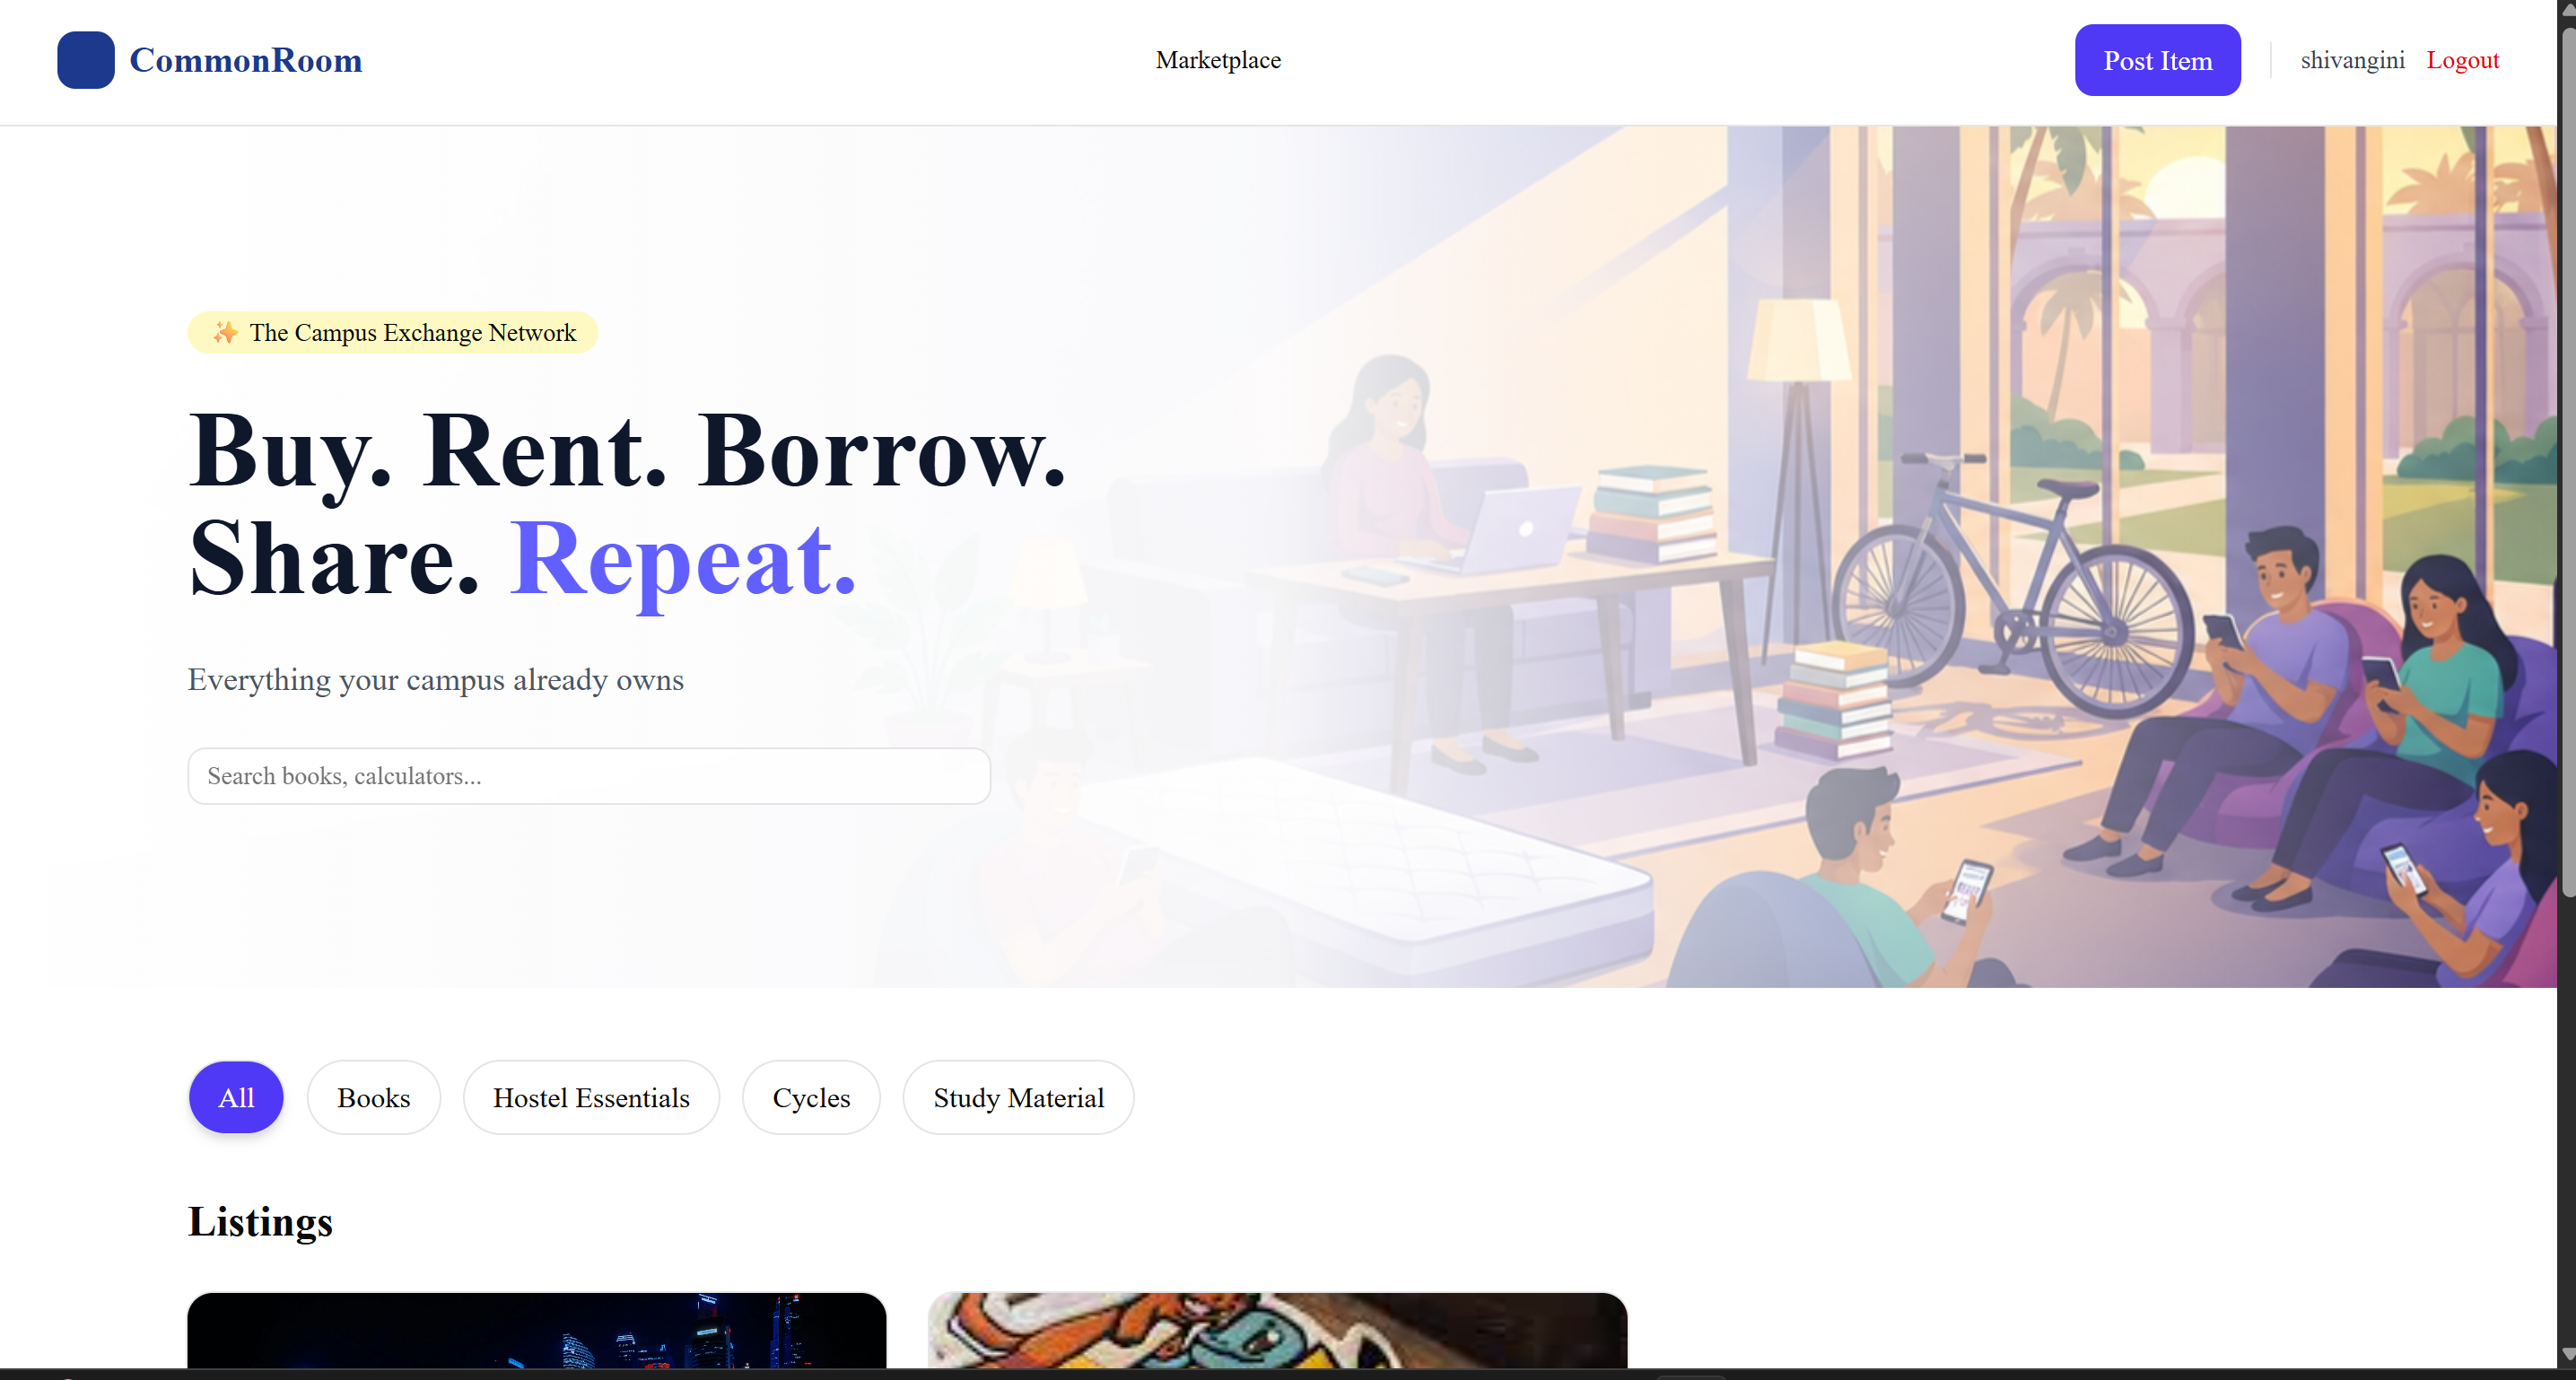
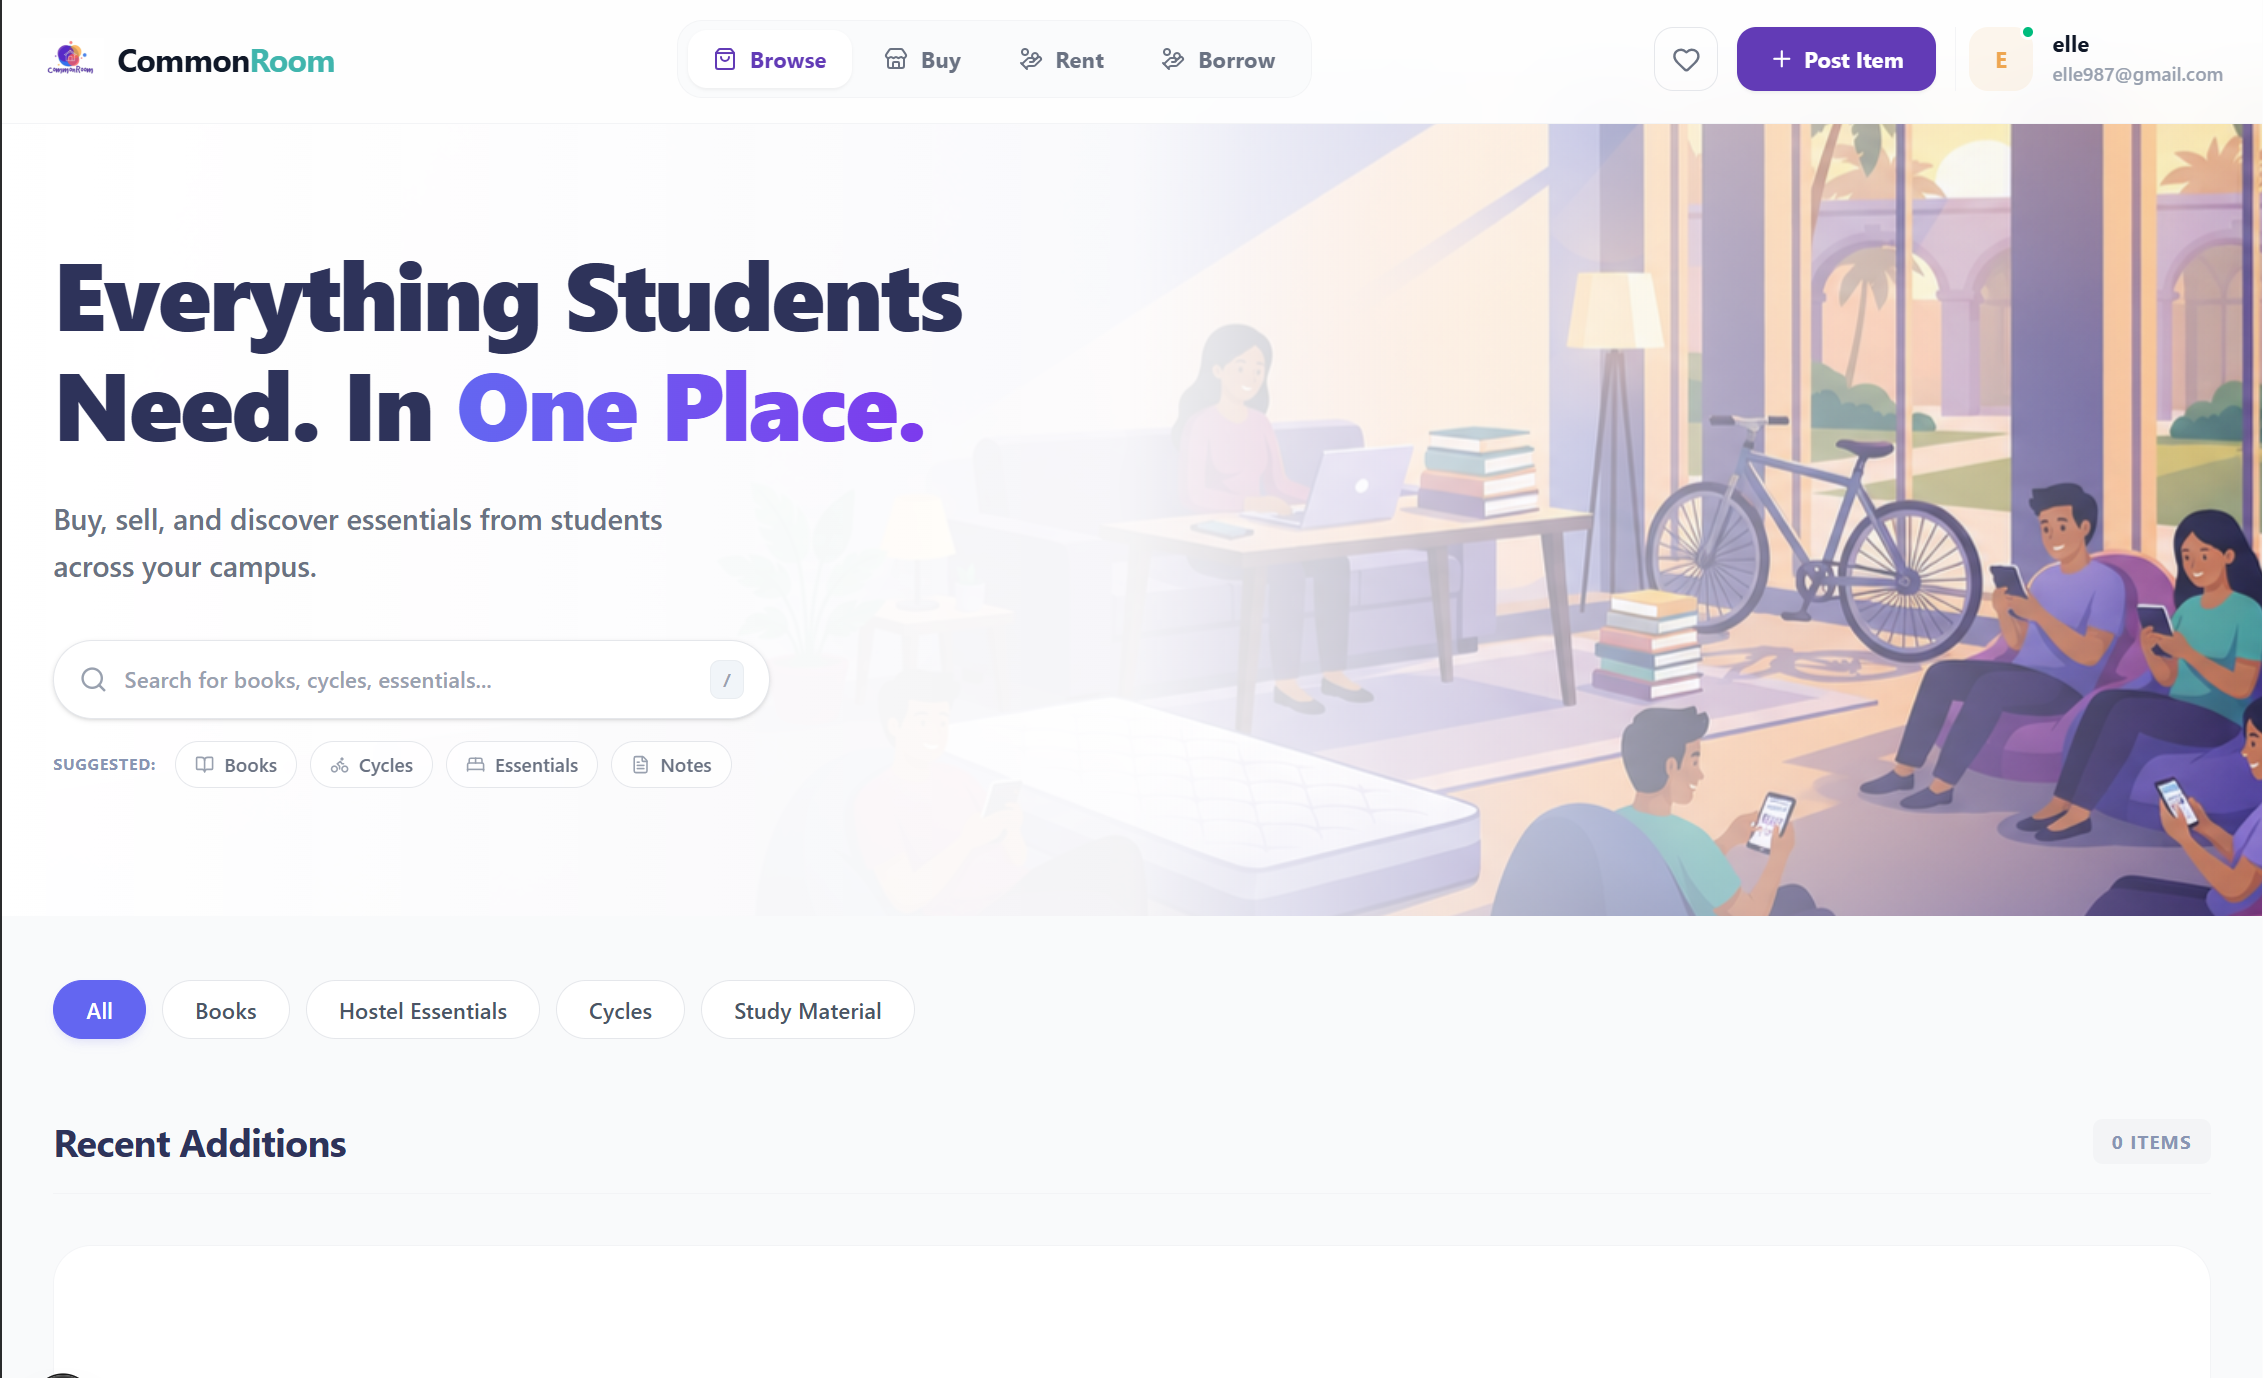
Updated README with screenshots

diff --git a/README.md b/README.md
@@ -5,6 +5,9 @@ A peer-to-peer campus marketplace for NIT Durgapur students to **buy, sell, rent
 🔗 **Live:** [commonroom-five.vercel.app](https://commonroom-five.vercel.app)
 
 ![CommonRoom Homepage](screenshots/homepage.png)
+![CommonRoom Listings](screenshots/listings.png)
+![CommonRoom Chat](screenshots/chat.png)
+![CommonRoom Dashboard](screenshots/mydashboard.png)
 
 ---
 